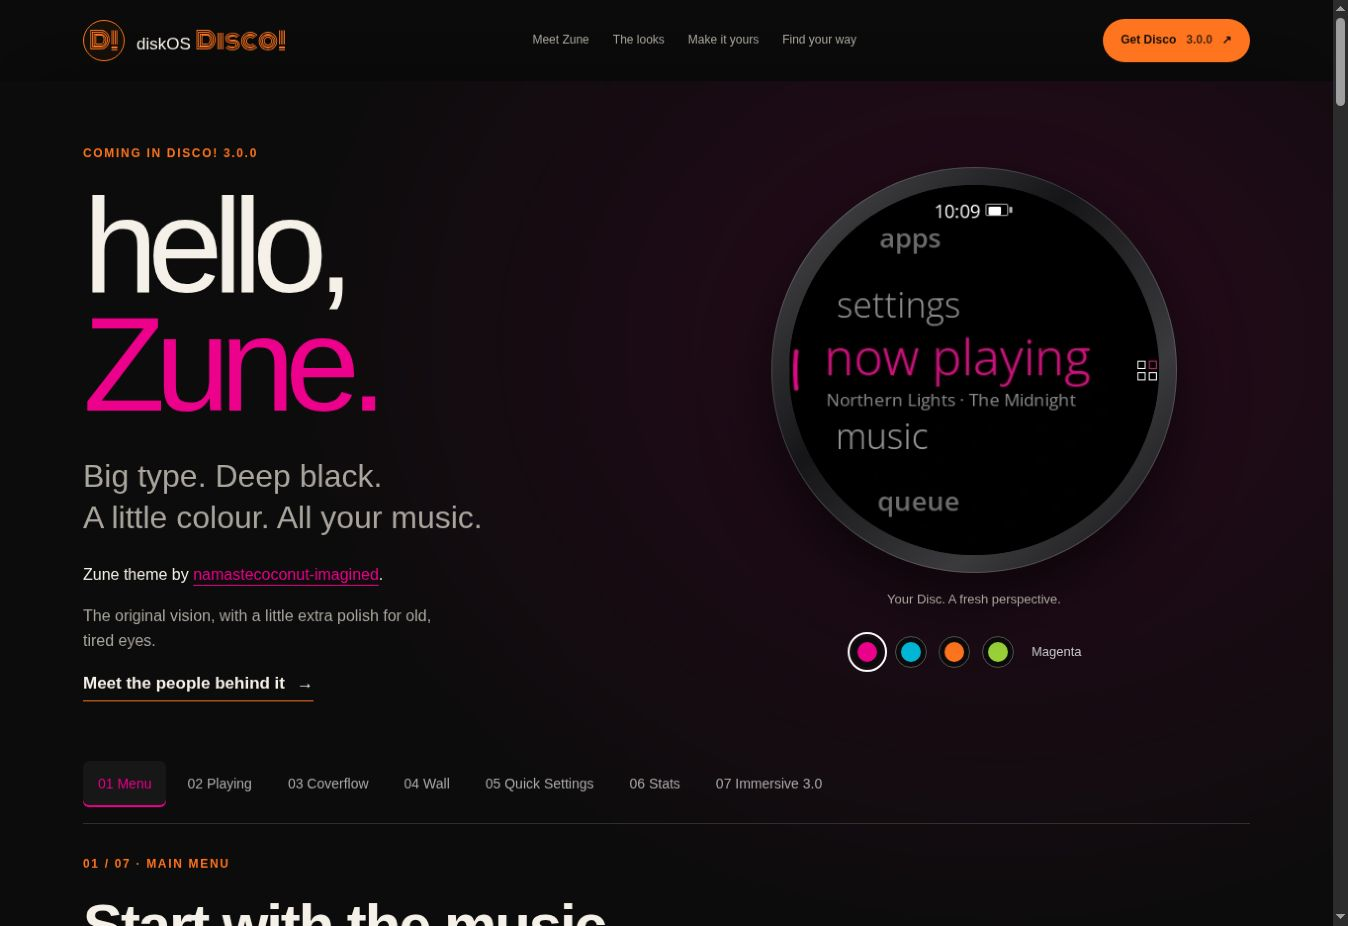
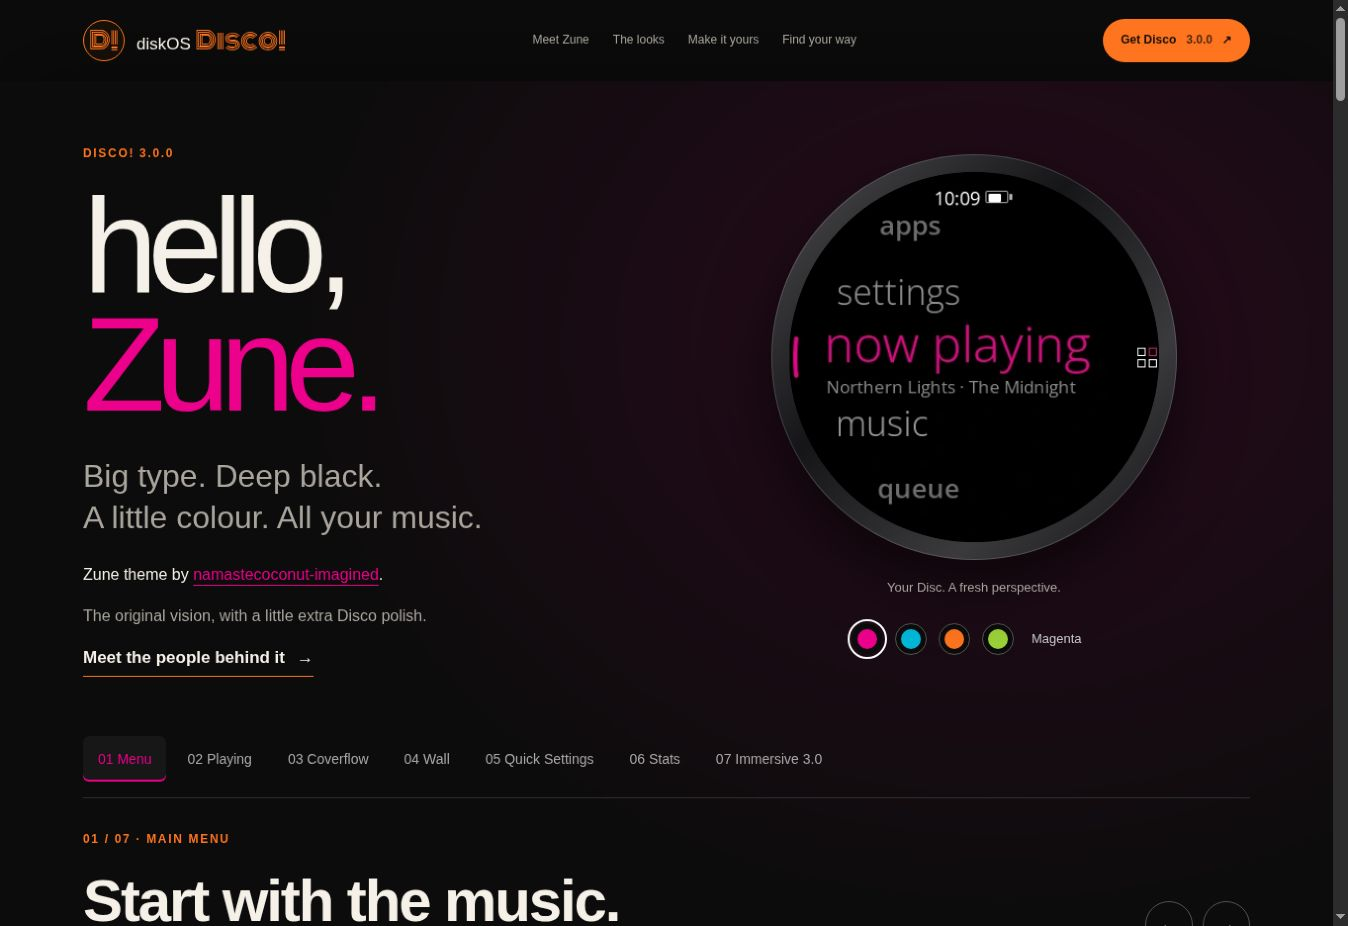
Release Disco 3.0.0: hello Zune, peace and happy listening

diff --git a/docs/index.html b/docs/index.html
@@ -26,7 +26,7 @@
 </header>
 <main id="main">
 <section class="zune-hero" id="zune" aria-labelledby="zune-title" style="--zune-accent:#ec008c">
-<div class="wrap zune-top"><div class="zune-intro"><p class="eyebrow">Coming in Disco! 3.0.0</p><h1 id="zune-title">hello,<br><span>Zune.</span></h1><p class="lead">Big type. Deep black.<br>A little colour. All your music.</p><p class="zune-byline">Zune theme by <a href="https://github.com/namastecoconut-imagined/diskos-disco-zune/commits?author=namastecoconut-imagined">namastecoconut-imagined</a>.</p><p class="zune-note">The original vision, with a little extra polish for old, tired eyes.</p><a class="text-link" href="#zune-thanks">Meet the people behind it <span aria-hidden="true">→</span></a></div>
+<div class="wrap zune-top"><div class="zune-intro"><p class="eyebrow">Disco! 3.0.0</p><h1 id="zune-title">hello,<br><span>Zune.</span></h1><p class="lead">Big type. Deep black.<br>A little colour. All your music.</p><p class="zune-byline">Zune theme by <a href="https://github.com/namastecoconut-imagined/diskos-disco-zune/commits?author=namastecoconut-imagined">namastecoconut-imagined</a>.</p><p class="zune-note">The original vision, with a little extra Disco polish.</p><a class="text-link" href="#zune-thanks">Meet the people behind it <span aria-hidden="true">→</span></a></div>
 <div class="zune-tour" aria-label="Interactive Zune walkthrough">
 <div class="zune-device"><a class="zune-enlarge" href="site/zune/magenta-menu.webp" aria-label="Enlarge Zune main menu"><img id="zune-screen" src="site/zune/magenta-menu.webp" width="360" height="360" alt="Zune main menu in magenta, with Now Playing focused" fetchpriority="high"></a><span class="zune-device-note">Your Disc. A fresh perspective.</span></div>
 <div class="zune-colors" role="group" aria-label="Preview accent colour"><button type="button" data-accent="magenta" style="--swatch:#ec008c" aria-pressed="true" aria-label="Magenta accent"></button><button type="button" data-accent="cyan" style="--swatch:#00b7d8" aria-pressed="false" aria-label="Cyan accent"></button><button type="button" data-accent="orange" style="--swatch:#ff751f" aria-pressed="false" aria-label="Orange accent"></button><button type="button" data-accent="lime" style="--swatch:#9bd238" aria-pressed="false" aria-label="Lime accent"></button><span id="zune-color-name">Magenta</span></div>
@@ -37,7 +37,7 @@
 <noscript><p>Walkthrough images: <a href="site/zune/magenta-music.webp">Now Playing</a> · <a href="site/zune/cyan-coverflow.webp">Coverflow</a> · <a href="site/zune/orange-wall.webp">Artwork wall</a> · <a href="site/zune/lime-quick.webp">Quick Settings</a> · <a href="site/zune/magenta-stats.webp">Listening stats</a>.</p></noscript>
 </div></section>
 <section class="hero" aria-labelledby="hero-title">
-<div class="intro wrap"><p class="eyebrow">A fresh look for your Snowsky Disc</p><h2 id="hero-title">Your music.<br> Your kind of<br><span class="disco-word">Disco!</span></h2><p class="lead">Four personalities. Your music, always within reach.</p><p class="news"><a href="https://github.com/zmd22/diskos-disco/blob/integration/zune-theme/docs/releases/v3.0.0.md"><span>Coming in 3.0.0</span> Meet Zune. Make it yours. <span aria-hidden="true">→</span></a></p><div class="actions"><a class="button" href="#get">Meet your next interface <span aria-hidden="true">↗</span></a><a class="text-link" href="https://github.com/zmd22/diskos-disco/blob/main/docs/DISCO_TOUR.md">Take the tour <span aria-hidden="true">→</span></a></div></div>
+<div class="intro wrap"><p class="eyebrow">A fresh look for your Snowsky Disc</p><h2 id="hero-title">Your music.<br> Your kind of<br><span class="disco-word">Disco!</span></h2><p class="lead">Four personalities. Your music, always within reach.</p><p class="news"><a href="https://github.com/zmd22/diskos-disco/blob/main/docs/releases/v3.0.0.md"><span>New in 3.0.0</span> Meet Zune. Make it yours. <span aria-hidden="true">→</span></a></p><div class="actions"><a class="button" href="#get">Meet your next interface <span aria-hidden="true">↗</span></a><a class="text-link" href="https://github.com/zmd22/diskos-disco/blob/main/docs/DISCO_TOUR.md">Take the tour <span aria-hidden="true">→</span></a></div></div>
 <div class="theme-stage wrap" id="looks">
 <article class="theme disco" aria-labelledby="disco-title">
 <div class="orbits">
@@ -69,8 +69,9 @@
 </div></section>
 <section class="help wrap split" id="help" aria-labelledby="help-title"><div class="help-stage"><img class="help-main" src="site/screens/help-howto.webp" width="360" height="360" alt="The built-in How to guide explains gestures one screen at a time" loading="lazy"><img class="help-small" src="site/screens/help-hint.webp" width="360" height="360" alt="A contextual hint in Null explains its navigation handle" loading="lazy"></div><div><p class="eyebrow">A little help, right when it helps.</p><h2 id="help-title">New here?<br> You’ll find your way.</h2><p class="section-lead">Little hints meet you where you are. The built-in <b>How to</b> walks you through the gestures, one screen at a time.</p><p class="breadcrumb">On your Disc: <b>Settings → Help</b></p><a class="text-link" href="https://github.com/zmd22/diskos-disco/blob/main/docs/HOWTO.md">Keep the quick guide handy <span aria-hidden="true">→</span></a></div></section>
 <section class="extras" aria-labelledby="extras-title"><div class="wrap"><div class="extras-heading"><div><p class="eyebrow">Beyond the next track</p><h2 id="extras-title">More ways to<br> love your collection.</h2></div><p>Bring music from Navidrome or an SMB3 share. Play by mood. Let Roulette pick a forgotten favourite.<br> <a class="text-link" href="https://github.com/zmd22/diskos-disco/blob/main/docs/DISCO_TOUR.md">There’s more in the tour <span aria-hidden="true">→</span></a></p></div><div class="extra-screens"><figure><img src="site/screens/disc-shelf.webp" width="360" height="360" alt="Disc Shelf: built-in Navidrome and SMB3 downloads" loading="lazy"><figcaption>Your music, to go.</figcaption></figure><figure><img src="site/screens/mood.webp" width="360" height="360" alt="SongSphere lets you place music on a mood sphere" loading="lazy"><figcaption>Find your mood.</figcaption></figure><figure><img src="site/screens/roulette.webp" width="360" height="360" alt="Album Roulette offers a surprise from your collection" loading="lazy"><figcaption>Take another spin.</figcaption></figure></div><p class="extra-note">Disc Shelf is built in. Choose what to bring, download it, then listen offline. Navidrome downloads are neatly filed by artist, year and album. Wi-Fi stays awake for copies when supported, then returns to its previous power-saving mode. <a href="https://github.com/zmd22/diskos-disco/blob/main/docs/DISC_SHELF_INSTALL.md">Get started</a>. SMB3 support is experimental.<br>For a fresh start, assign <b>Shuffle!</b> to your menu hold action.</p></div></section>
-<section class="zune-thanks wrap" id="zune-thanks" aria-labelledby="thanks-title"><p class="eyebrow">A new look. A shared effort.</p><h2 id="thanks-title">Credit where<br><em>it belongs.</em></h2><div class="thanks-grid"><div><h3>Thank you, namastecoconut-imagined.</h3><p>The Zune theme began with <a href="https://github.com/namastecoconut-imagined/diskos-disco-zune">namastecoconut-imagined’s Zune fork</a>: its Metro-inspired visual direction, expressive typography, dark canvas, home menu and distinctive music and library presentation. That design and implementation are the foundation of what you see here.</p><p>We adapted the theme into Disco’s shared controls and features, retaining its character. Please <a href="https://github.com/namastecoconut-imagined/diskos-disco-zune/commits?author=namastecoconut-imagined">visit the original author’s work</a> and give them the credit for the idea.</p></div><div><h3>A little polish for tired eyes.</h3><p>zmd22’s pass focuses on readability and everyday use: larger small text, more balanced spacing, clearer confirmations, configurable shortcuts, a new accent-coloured volume overlay and shared library views.</p><p>Built on <a href="https://github.com/b0hemia/diskos">b0hemia’s diskOS</a> and the work of its contributors, with LVGL and Open Sans. Open Sans keeps its SIL Open Font License. <a href="https://github.com/zmd22/diskos-disco/blob/integration/zune-theme/NOTICE.md">Full acknowledgements and licences</a>.</p><p class="zune-render-note">An unofficial fan theme; not affiliated with Microsoft. Thanks to everyone who builds, tests and shares improvements for this little player.</p></div></div></section>
-<section class="get wrap" id="get" aria-labelledby="get-title"><p class="eyebrow">Same Disc. Fresh energy.</p><h2 id="get-title">Make yourself<br> <em>at home.</em></h2><p class="section-lead">Free, open source, and made for the FiiO Snowsky Disc.</p><p class="release-status"><strong>3.0.0 preview.</strong> Zune is being prepared on the <a href="https://github.com/zmd22/diskos-disco/tree/integration/zune-theme">Zune branch</a>. The installer below downloads the latest published release; it will include Zune once 3.0.0 is released. <a href="https://github.com/zmd22/diskos-disco/blob/integration/zune-theme/docs/releases/v3.0.0.md">Read the 3.0.0 notes</a>.</p><p class="risk-note"><strong>Best-effort hobby project, experimental, as-is.</strong> No warranty or liability; not affiliated with FiiO or Snowsky. Back up your music and keep the saved stock image before you install.</p><aside class="win-notice" role="note" aria-labelledby="win-notice-title"><span class="win-notice-icon" aria-hidden="true">!</span><div><strong id="win-notice-title">Used the Windows app before? Set it up again once.</strong><p>Download the latest Windows app below, open it and click <b>Set up again</b> on its setup page. Until then, an older app keeps installing the version it was first set up with. From 2.5.9 on, the app also updates itself to the latest release on every start.</p></div></aside><div class="downloads"><a class="download primary" href="https://github.com/zmd22/diskos-disco/releases/latest/download/diskOS-Disco-for-Windows.zip"><span class="download-type">Windows</span><strong>Get the installer <span aria-hidden="true">↗</span></strong><span>Unsupported, but working as intended (confirmed by users). Always installs the latest release. Start from FiiO’s stock V2.57 firmware.</span></a><a class="download" href="https://github.com/zmd22/diskos-disco/blob/main/docs/UPDATING.md"><span class="download-type">Already running Disco?</span><strong>Update your Disc <span aria-hidden="true">↗</span></strong><span>Keep your setup. Get the latest changes.</span></a></div><p class="install-links"><a href="https://github.com/zmd22/diskos-disco/blob/main/RELEASE_INSTALL.md">First install &amp; Linux guide</a><span aria-hidden="true">·</span><a href="https://github.com/zmd22/diskos-disco/blob/main/docs/MACOS.md">macOS install guide</a><span aria-hidden="true">·</span><a href="https://github.com/zmd22/diskos-disco/releases/latest">All downloads</a><span aria-hidden="true">·</span><a href="https://github.com/zmd22/diskos-disco/blob/main/docs/SWITCHING.md">Switching &amp; going back</a><span aria-hidden="true">·</span><a href="https://github.com/zmd22/diskos-disco/blob/integration/zune-theme/docs/releases/v3.0.0.md">What’s new</a></p><p class="install-note">Made for FiiO firmware V2.57. <strong>Start from FiiO’s stock V2.57 firmware</strong>: installing over upstream diskOS or another diskOS build is not supported and can be buggy. Switched from upstream diskOS and something looks wrong? Settings › System › Maintenance › Reset diskOS Settings. Starts stock after installing? Hold Volume Up at power-on, then Settings › System › Controls › Default UI › diskOS. Back up your player before you begin.</p></section>
+<section class="zune-thanks wrap" id="zune-thanks" aria-labelledby="thanks-title"><p class="eyebrow">A new look. A shared effort.</p><h2 id="thanks-title">Credit where<br><em>it belongs.</em></h2><div class="thanks-grid"><div><h3>Thank you, namastecoconut-imagined.</h3><p>The Zune theme began with <a href="https://github.com/namastecoconut-imagined/diskos-disco-zune">namastecoconut-imagined’s Zune fork</a>: its Metro-inspired visual direction, expressive typography, dark canvas, home menu and distinctive music and library presentation. That design and implementation are the foundation of what you see here.</p><p>We adapted the theme into Disco’s shared controls and features, retaining its character. Please <a href="https://github.com/namastecoconut-imagined/diskos-disco-zune/commits?author=namastecoconut-imagined">visit the original author’s work</a> and give them the credit for the idea.</p></div><div><h3>A little extra polish.</h3><p>zmd22’s pass focuses on readability and everyday use: larger small text, more balanced spacing, clearer confirmations, configurable shortcuts, a new accent-coloured volume overlay and shared library views.</p><p>Built on <a href="https://github.com/b0hemia/diskos">b0hemia’s diskOS</a> and the work of its contributors, with LVGL and Open Sans. Open Sans keeps its SIL Open Font License. <a href="https://github.com/zmd22/diskos-disco/blob/main/NOTICE.md">Full acknowledgements and licences</a>.</p><p class="zune-render-note">An unofficial fan theme; not affiliated with Microsoft. Thanks to everyone who builds, tests and shares improvements for this little player.</p></div></div></section>
+<section class="get wrap" id="get" aria-labelledby="get-title"><p class="eyebrow">Same Disc. Fresh energy.</p><h2 id="get-title">Make yourself<br> <em>at home.</em></h2><p class="section-lead">Free, open source, and made for the FiiO Snowsky Disc.</p><p class="release-status"><strong>Disco! 3.0.0.</strong> Meet Zune and Immersive 3.0. <a href="https://github.com/zmd22/diskos-disco/releases/tag/v3.0.0">Get the release</a> or <a href="https://github.com/zmd22/diskos-disco/blob/main/docs/releases/v3.0.0.md">read what’s new</a>.</p><p class="risk-note"><strong>Best-effort hobby project, experimental, as-is.</strong> No warranty or liability; not affiliated with FiiO or Snowsky. Back up your music and keep the saved stock image before you install.</p><aside class="win-notice" role="note" aria-labelledby="win-notice-title"><span class="win-notice-icon" aria-hidden="true">!</span><div><strong id="win-notice-title">Used the Windows app before? Set it up again once.</strong><p>Download the latest Windows app below, open it and click <b>Set up again</b> on its setup page. Until then, an older app keeps installing the version it was first set up with. From 2.5.9 on, the app also updates itself to the latest release on every start.</p></div></aside><div class="downloads"><a class="download primary" href="https://github.com/zmd22/diskos-disco/releases/latest/download/diskOS-Disco-for-Windows.zip"><span class="download-type">Windows</span><strong>Get the installer <span aria-hidden="true">↗</span></strong><span>Unsupported, but working as intended (confirmed by users). Always installs the latest release. Start from FiiO’s stock V2.57 firmware.</span></a><a class="download" href="https://github.com/zmd22/diskos-disco/blob/main/docs/UPDATING.md"><span class="download-type">Already running Disco?</span><strong>Update your Disc <span aria-hidden="true">↗</span></strong><span>Keep your setup. Get the latest changes.</span></a></div><p class="install-links"><a href="https://github.com/zmd22/diskos-disco/blob/main/RELEASE_INSTALL.md">First install &amp; Linux guide</a><span aria-hidden="true">·</span><a href="https://github.com/zmd22/diskos-disco/blob/main/docs/MACOS.md">macOS install guide</a><span aria-hidden="true">·</span><a href="https://github.com/zmd22/diskos-disco/releases/latest">All downloads</a><span aria-hidden="true">·</span><a href="https://github.com/zmd22/diskos-disco/blob/main/docs/SWITCHING.md">Switching &amp; going back</a><span aria-hidden="true">·</span><a href="https://github.com/zmd22/diskos-disco/blob/main/docs/releases/v3.0.0.md">What’s new</a></p><p class="install-note">Made for FiiO firmware V2.57. <strong>Start from FiiO’s stock V2.57 firmware</strong>: installing over upstream diskOS or another diskOS build is not supported and can be buggy. Switched from upstream diskOS and something looks wrong? Settings › System › Maintenance › Reset diskOS Settings. Starts stock after installing? Hold Volume Up at power-on, then Settings › System › Controls › Default UI › diskOS. Back up your player before you begin.</p></section>
+<section class="wrap zune-thanks" aria-labelledby="farewell-title"><p class="eyebrow">A note from zmd22</p><h2 id="farewell-title">Peace.<br><em>Happy listening.</em></h2><p class="section-lead">I’m out. Thank you to everyone who built, tested, shared and listened. Enjoy the music.</p></section>
 </main>
 <footer class="footer wrap"><div><a class="brand" href="#top"><span class="brand-mark" aria-hidden="true">D!</span><span>See you on the next album.</span></a><p>Built on <a href="https://github.com/b0hemia/diskos">b0hemia’s diskOS</a>. Made with love for a little round player.<br> Independent, best-effort hobby project, provided as-is. Not affiliated with FiiO or Snowsky.</p></div><nav aria-label="Project links"><a href="https://github.com/zmd22/diskos-disco">GitHub</a><a href="https://github.com/zmd22/diskos-disco/blob/main/docs/DISCO_TOUR.md">Tour</a><a href="https://github.com/zmd22/diskos-disco/issues">Feedback</a><a href="https://github.com/zmd22/diskos-disco/blob/main/NOTICE.md">Credits &amp; licences</a></nav><span class="footer-version">diskOS Disco! 3.0.0</span></footer>
 <dialog class="screen-dialog" aria-labelledby="screen-title"><button class="dialog-close" type="button" aria-label="Close enlarged screen">✕</button><img width="360" height="360" alt=""><p id="screen-title"></p></dialog>

diff --git a/README.md b/README.md
@@ -1,6 +1,6 @@
 <h1 align="center">diskOS Disco!</h1>
 
-**3.0.0 release candidate:** [Meet Zune](docs/themes/zune.md) · [Release notes](docs/releases/v3.0.0.md) · [Remaining device checks](docs/RELEASE_3.0.0.md). Prepared on the Zune branch; not yet published.
+**Disco! 3.0.0:** [Meet Zune](docs/themes/zune.md) · [Release notes](docs/releases/v3.0.0.md) · [Validation notes](docs/RELEASE_3.0.0.md).
 
 <p align="center">
   <b>Your music. Your kind of Disco.</b><br>
@@ -41,7 +41,7 @@
 
 ## New in 3.0.0 — hello, Zune.
 
-**Zune by [namastecoconut-imagined](https://github.com/namastecoconut-imagined/diskos-disco-zune/commits?author=namastecoconut-imagined).** Bold type, deep black and an accent you choose. The original theme’s design and implementation are the foundation; zmd22 gave it a little Disco integration and polish for old, tired eyes. Thank you for sharing this lovely new way to enjoy the Disc.
+**Zune by [namastecoconut-imagined](https://github.com/namastecoconut-imagined/diskos-disco-zune/commits?author=namastecoconut-imagined).** Bold type, deep black and an accent you choose. The original theme’s design and implementation are the foundation; zmd22 gave it a little Disco integration and polish. Thank you for sharing this lovely new way to enjoy the Disc.
 
 **Immersive 3.0** brings Zune the shared spinning-disc transition and transport overlay. Larger small text, balanced settings, configurable tap/double-tap/hold shortcuts, a modal accent volume dial and shared Wall/Coverflow album views round out the update. The website adds an interactive seven-screen Zune walkthrough in four accents, including Immersive with its transport controls open.
 
@@ -393,6 +393,10 @@ usual surprises: [Flashing and switching interfaces](docs/SWITCHING.md).
 | [UI choices](docs/UI_CHOICES.md) | Why things look and work the way they do |
 | [Changelog](CHANGELOG.md) | Every Disco! release, newest first |
 | [All docs](docs/README.md) | Optional apps, hardware notes, developer workflow, legal |
+
+## A note from zmd22
+
+I’m out. Peace, and happy listening. Thank you to everyone who built, tested, shared and listened. Enjoy the music.
 
 ## Thanks
 

diff --git a/docs/releases/v3.0.0.md b/docs/releases/v3.0.0.md
@@ -1,12 +1,16 @@
 # diskOS Disco! 3.0.0 — hello, Zune.
 
-Release candidate preparation on `integration/zune-theme`. No release or tag has been published by this change. The installer’s “latest” links continue to serve the latest published release until 3.0.0 is cut.
+Disco! 3.0.0 brings Zune and Immersive 3.0 to the Snowsky Disc.
+
+## A note from zmd22
+
+I’m out. Peace, and happy listening. Thank you to everyone who built, tested, shared and listened. Enjoy the music.
 
 ## Zune, by namastecoconut-imagined
 
 A new optional theme brings bold, lowercase Open Sans, deep black, a flowing main menu and an accent you choose. **Thank you to [namastecoconut-imagined](https://github.com/namastecoconut-imagined/diskos-disco-zune/commits?author=namastecoconut-imagined)** for the original Zune theme’s visual direction and implementation. This integration is based on their [Zune fork](https://github.com/namastecoconut-imagined/diskos-disco-zune), commit `13821d6d024d6dfc90d6ac505ca7e4af94f4e256`.
 
-zmd22’s contribution is the Disco integration and a readability/usability polish pass for old, tired eyes: larger small text, balanced headings, clearer confirmations, roomier track information and consistent settings. The original theme deserves the design credit. Thanks also to b0hemia and the diskOS contributors for the firmware foundation, and LVGL and Open Sans for the tools and typography. Full licences and acknowledgements remain in [NOTICE](../../NOTICE.md). Unofficial fan theme; not affiliated with Microsoft.
+zmd22’s contribution is the Disco integration and a readability/usability polish pass: larger small text, balanced headings, clearer confirmations, roomier track information and consistent settings. The original theme deserves the design credit. Thanks also to b0hemia and the diskOS contributors for the firmware foundation, and LVGL and Open Sans for the tools and typography. Full licences and acknowledgements remain in [NOTICE](../../NOTICE.md). Unofficial fan theme; not affiliated with Microsoft.
 
 Select Zune under **Settings → Display → Theme**. See the [Zune guide](../themes/zune.md).
 

diff --git a/docs/RELEASE_3.0.0.md b/docs/RELEASE_3.0.0.md
@@ -1,6 +1,6 @@
-# 3.0.0 release preparation
+# 3.0.0 validation notes
 
-Prepared on `integration/zune-theme`. Main, tags and the published GitHub Pages site are unchanged. Publishing a release is a separate step after device acceptance.
+Disco! 3.0.0 release validation record. The host checks below are complete; the listed hardware checks remain unverified.
 
 ## Prepared in this branch
 
@@ -26,4 +26,4 @@ Host validation does not establish physical compatibility or battery life. The W
 - [ ] Long library Wall/Coverflow sessions; real playback/downloads together; Wi-Fi and Bluetooth reconnects; memory and battery observation.
 - [ ] SMB3 transfers against a real NAS remain experimental until device tested.
 
-After acceptance, run `python3 tools/check-release.py --tag v3.0.0` and `python3 tools/package-release.py` from a clean checkout. Change the website’s explicit preview/coming-soon wording only when the corresponding download exists. Review the prepared notes before creating the tag. No tag or release is created by these scripts.
+To verify or reproduce the package, run `python3 tools/check-release.py --tag v3.0.0` and `python3 tools/package-release.py` from a clean checkout. No tag or release is created by these scripts.

diff --git a/docs/site/README.md b/docs/site/README.md
@@ -16,7 +16,7 @@ Installation links include the macOS guide and external Apple Silicon flash tool
 
 ## 3.0.0 Zune walkthrough
 
-The original main-branch site remains the design baseline. Zune leads with seven interactive screens, four accents, full-size image viewing and keyboard-accessible screen selection. No external JavaScript or tracking is added. Reduced-motion readers retain normal page flow. The download panel explicitly distinguishes this 3.0.0 branch preview from the latest published installer.
+The original main-branch site remains the design baseline. Zune leads with seven interactive screens, four accents, full-size image viewing and keyboard-accessible screen selection. No external JavaScript or tracking is added. Reduced-motion readers retain normal page flow. The download panel links to the 3.0.0 release and the latest published installer.
 
 Regenerate the 28 actual LVGL screenshots in a disposable Linux host container:
 

diff --git a/CHANGELOG.md b/CHANGELOG.md
@@ -6,7 +6,7 @@ Entries follow the Keep a Changelog format, with Added, Changed, and Fixed categ
 diskOS remains beta software; version numbers do not imply broad hardware or feature validation.
 
 
-## 3.0.0 — release candidate
+## 3.0.0
 
 Zune theme by [namastecoconut-imagined](https://github.com/namastecoconut-imagined/diskos-disco-zune), with Disco integration and legibility polish by zmd22. [Release notes](docs/releases/v3.0.0.md) and [validation checklist](docs/RELEASE_3.0.0.md).
 

diff --git a/docs/ZUNE.md b/docs/ZUNE.md
@@ -1,6 +1,6 @@
 # Zune integration — Disco! 3.0.0
 
-The Zune integration is prepared on `integration/zune-theme`. Main and release tags remain unchanged. The visible version is 3.0.0; this branch is a release candidate, not a published release.
+The Zune integration is included in Disco! 3.0.0. See [the release](https://github.com/zmd22/diskos-disco/releases/tag/v3.0.0) for downloads.
 
 - [Theme guide and acknowledgements](themes/zune.md)
 - [3.0.0 release notes](releases/v3.0.0.md)
